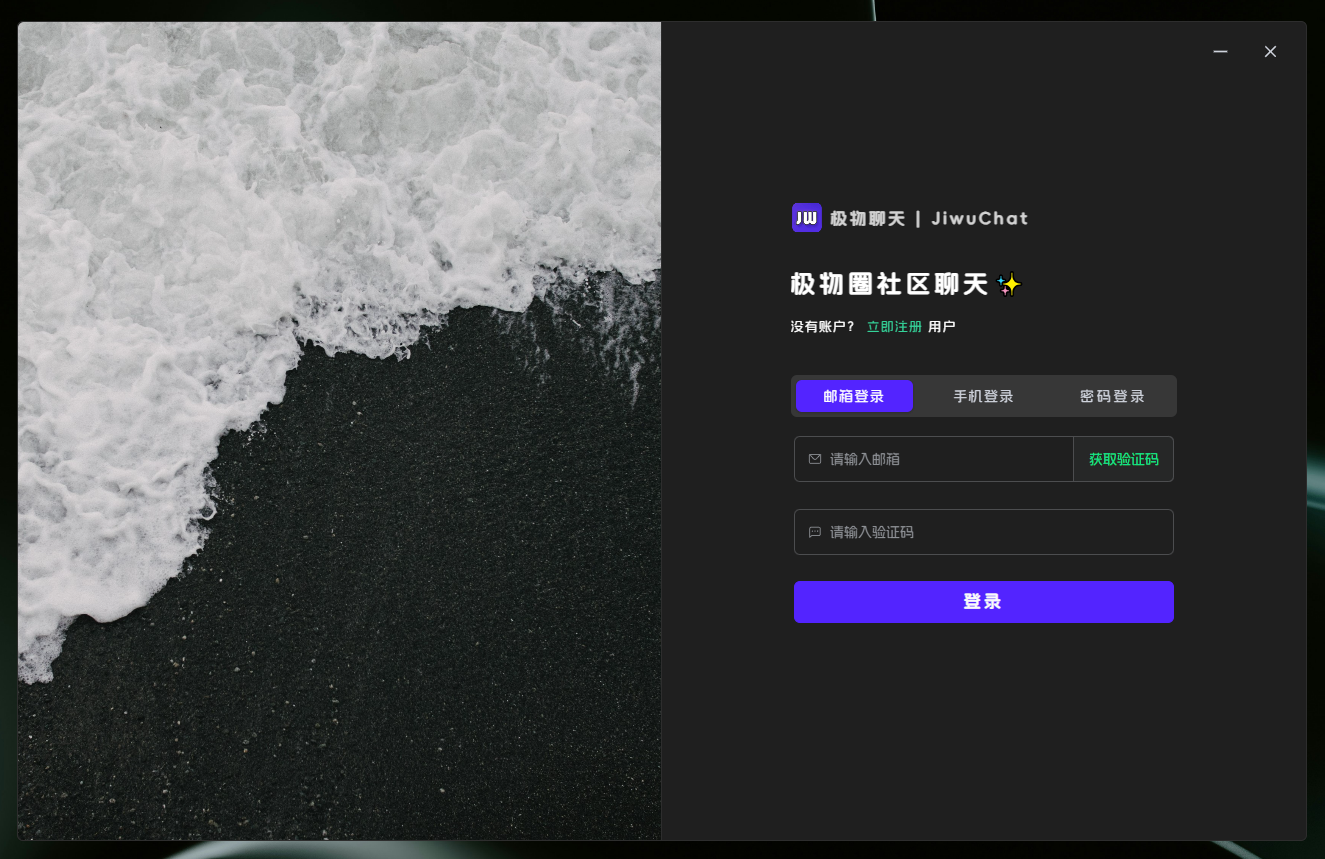
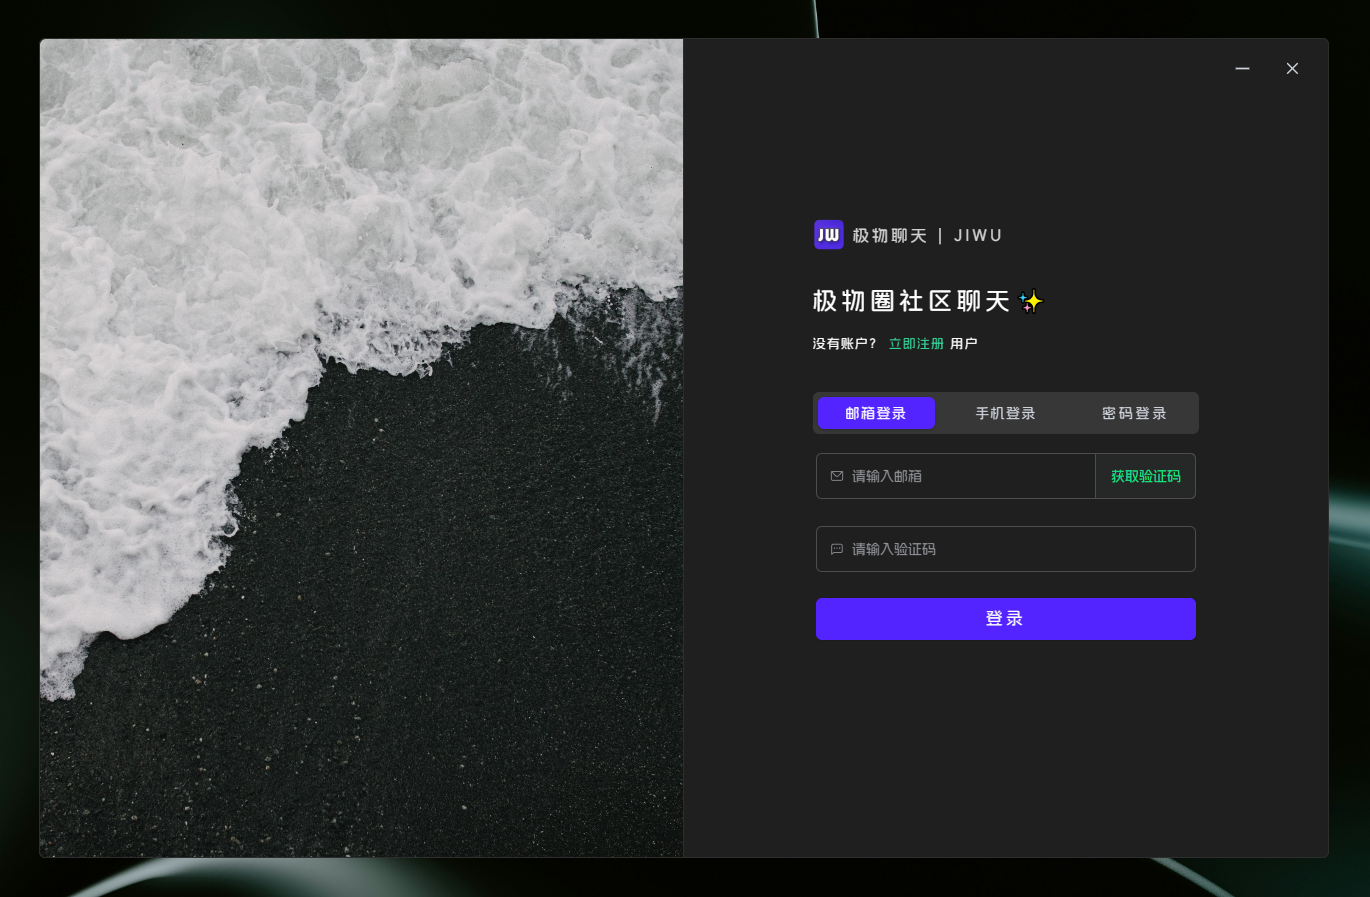
Update: 修改更新文档

diff --git a/pages/login.vue b/pages/login.vue
@@ -22,7 +22,6 @@ onMounted(() => {
 <template>
   <div
     v-if="user.showLoginForm || user.showRegisterForm"
-    data-tauri-drag-region
     class="relative min-h-100vh flex-1 overflow-hidden overflow-hidden shadow border-default card-default bg-color"
     grid="~ cols-1 md:cols-2"
   >
@@ -31,16 +30,17 @@ onMounted(() => {
     </div>
     <!-- bg -->
     <div hidden h-full w-full border-0 border-r-1px shadow-md shadow-inset md:block border-default>
-      <ElImage src="/images/login_bg.jpg" fit="cover" data-tauri-drag-region class="h-full select-none overflow-hidden rounded-r-0 card-default" />
+      <ElImage data-tauri-drag-region src="/images/login_bg.jpg" fit="cover" class="h-full select-none overflow-hidden rounded-r-0 card-default" />
     </div>
     <!-- 表单 -->
-    <div data-tauri-drag-region class="flex flex-col select-none pt-20vh">
-      <div ref="autoAnimateRef" mx-a class="w-3/5">
-        <div key="login-bg" flex items-center gap-2 py-4>
+    <div class="flex flex-col select-none pt-20vh">
+      <div ref="autoAnimateRef" mx-a class="w-5/6 text-center sm:(w-3/5 text-left)">
+        <div key="login-bg" class="fixed left-4 top-0 flex items-center gap-2 py-4 sm:(relative left-a top-a)">
           <ElImage
+            data-tauri-drag-region
             src="/logo.png" class="h-2em w-2em"
           />
-          <strong class="font-bold tracking-0.2em op-80">
+          <strong data-tauri-drag-region class="font-bold tracking-0.2em op-80">
             极物聊天 | JIWU
           </strong>
         </div>
@@ -48,11 +48,13 @@ onMounted(() => {
         <FormLoginForm
           v-if="user.showLoginForm"
           key="login-form"
+          data-tauri-drag-region
         />
         <!-- 注册 -->
         <FormRegisterForm
           v-else-if="user.showRegisterForm"
           key="register-form"
+          data-tauri-drag-region
         />
       </div>
     </div>

diff --git a/composables/store/useSettingStore.ts b/composables/store/useSettingStore.ts
@@ -67,13 +67,7 @@ export const useSettingStore = defineStore(
         const update = await checkUpdate();
         appUploader.value.isUpload = !!update.shouldUpdate;
         appUploader.value.isUpdatateLoad = false;
-        if (!update.shouldUpdate) {
-          ElMessage.success("当前版本已是最新版本！");
-          return false;
-        }
-        if (!update.manifest?.version)
-          return;
-        if (appUploader.value.isUpload) {
+        if (appUploader.value.isUpload && update.manifest?.version) {
           // 忽略
           if (check && appUploader.value.ignoreVersion.includes(update.manifest?.version))
             return false;
@@ -119,7 +113,10 @@ export const useSettingStore = defineStore(
           });
         }
         else {
-          ElMessage.info("当前已是最新版本！");
+          const route = useRoute();
+          console.log(route.path);
+          if (route.path.includes("/setting"))
+            ElMessage.info("当前版本已是最新版本！");
         }
       }
       catch (error) {

diff --git a/pages/user/safe.vue b/pages/user/safe.vue
@@ -4,7 +4,6 @@ import { useModeToggle } from "@/composables/utils/useToggleThemeAnima";
 import { appKeywords } from "@/constants/index";
 
 const isLoading = ref(false);
-const user = useUserStore();
 const setting = useSettingStore();
 // 字体监听
 watchDebounced(
@@ -43,14 +42,6 @@ useSeoMeta({
   title: "设置",
   description: "设置 - 极物圈 开启你的极物之旅！",
   keywords: appKeywords,
-});
-function onSave() {
-  ElNotification.success("保存成功！");
-}
-
-const theme = computed({
-  get: () => setting.settingPage.modeToggle.value,
-  set: (val: string) => setting.settingPage.modeToggle.value = val,
 });
 
 // 更新

diff --git a/components/menu/HeaderMenuBar.vue b/components/menu/HeaderMenuBar.vue
@@ -10,7 +10,7 @@ const isTop = ref(false);
     class="nav group sticky left-0 top-0 h-2rem flex-row-bt-c select-none gap-4 border-0 border-b-0 border-b-1px rounded-b-0 px-4 border-default bg-color"
   >
     <div class="left flex-row-c-c gap-3 tracking-0.2em">
-      <CardElImage src="./logo.png" class="h-1.6rem w-1.6rem" />
+      <CardElImage src="/logo.png" class="h-1.6rem w-1.6rem" />
       <strong hidden sm:block>极物圈</strong>
     </div>
     <!-- 拖拽区域 -->

diff --git a/components/Chat/RoomGroup.vue b/components/Chat/RoomGroup.vue
@@ -213,7 +213,6 @@ function toggleAdminRole(dto: ChatRoomAdminAddDTO, type: ChatRoomRoleEnum) {
     },
   });
 }
-
 watchDebounced(() => chat.theContact.roomId, (val: string) => {
   if (val && chat.theContact.type === RoomType.GROUP)
     reload();

diff --git a/README.en.md b/README.en.md
@@ -1,0 +1,129 @@
+ <h1 align=center margin="10em" style="margin:4em 0 0 0;font-size: 30px;letter-spacing:0.3em;">
+<img src="./public/logo.png" width = "60" height = "60" alt="图片名称" align=center />
+&
+<img src="./.doc/tauri.png" width = "60" height = "60" alt="图片名称" align=center />
+ </h1>
+ <h2 align=center style="font-size: 22px;">Jiwu Chat Tauri APP</h2>
+<div align=center>
+
+Language : English | [简体中文](./README.md)
+
+</div>
+
+### Introduction
+
+Jiwu Chat Tauri APP is a chat desktop application based on the Nuxt3 + Tauri + element-plus basic framework. It provides a beautiful user interface and integrates chat and social functions. At the same time, it supports AI shopping chat and global dark mode. Users can use the app for real-time chat, share dynamic and AI customer service questions and answers.
+
+### Technology
+
+```txt
+Based on Nuxt3 + Tauri + element-plus basic framework
+```
+
+### Project Screenshots
+
+- Chat Desktop Application Login
+
+![登录](./.doc/login.png)
+
+- Chat Desktop Application Chat
+
+![主页](./.doc/chat.png)
+
+- Global Dark Mode Light / Dark
+
+![暗黑](./.doc/chat1.png)
+
+- Chat Social
+
+![暗黑](./.doc/chat2.png)
+
+- AI Shopping Chat
+
+![暗黑](./.doc/chat3.png)
+
+- Account and Security
+
+![账号与安全](./.doc/chat4.png)
+
+![账号与安全](./.doc/chat5.png)
+
+- Responsive
+
+<img src="./.doc/chat7.png" width = "200" alt="响应式" align=center /><img src="./.doc/chat8.png" width = "200" alt="响应式" align=center />
+
+## ⏳ Project Setup
+
+```sh
+# node version >= 16
+npm install -g pnpm
+
+pnpm install
+```
+
+### ✨ Development
+
+```sh
+# It is recommended to run separately
+# 1) Start nuxt
+pnpm run dev:nuxt 
+# 2) Start tauri
+pnpm run dev:tauri 
+```
+
+### 📦 Packaging
+
+```sh
+pnpm run build
+```
+
+or
+
+```sh
+# First build nuxt, then build tauri
+pnpm run build:nuxt
+
+pnpm run build:tauri
+```
+
+### ❌ pnpm install error
+
+View source
+
+```sh
+pnpm get registry 
+```
+
+Temporary modification
+
+```sh
+pnpm --registry https://registry.npm.taobao.org install any-touch
+```
+
+Persistent use
+
+```sh
+pnpm config set registry https://registry.npm.taobao.org
+```
+
+Restore
+
+```sh
+pnpm config set registry https://registry.npmjs.org
+```
+
+### 🔧 Tech Stack
+
+| Category         | Technology/Component   | Version Number   |
+| --------------------- | ---------------------- | ---------------- |
+| Framework        | Nuxt3                 | 3.12.2          |
+|                 | Tauri                 | 1.5.6            |
+| UI Component | Element Plus         | 2.7.6           |
+| State Management  | Pinia                 | 2.1.7           |
+| Toolkit         | Vueuse                | 10.11.0         |
+| Build and Development Tools | Nuxi               | lts            |
+|                 | Vite                  | lts             |
+| Code Quality     | ESLint                | 8.56.0          |
+|                 | Prettier               | 3.3.2           |
+| Type Checking    | TypeScript            | 5.3.2           |
+| Style Handling   | Sass                  | 1.77.6          |

diff --git a/README.md b/README.md
@@ -1,3 +1,4 @@
+<div align=center>
 <h1 align=center margin="10em" style="margin:4em 0 0 0;font-size: 30px;letter-spacing:0.3em;">
 <img src="./public/logo.png" width = "60" height = "60" alt="图片名称" align=center />
 &
@@ -5,9 +6,13 @@
  </h1>
  <h2 align=center style="font-size: 22px;">极物聊天 Tauri APP</h2>
 
+语言 : 简体中文 | [English](./README.en.md)
+
+</div>
+
 ### 介绍
 
-极物圈是一个综合性平台，集商城和社交功能于一体。在这个平台上，用户可以轻松购买虚拟商品，并且可以发布个人帖子，与他人互动，进行评论等。该平台注重用户体验，为用户提供了一个在你圈子交流、好物推荐、分享和购物的多功能环境。
+极物聊天 Tauri APP 是一个基于Nuxt3 + Tauri + element-plus 基本框架的聊天桌面应用。它提供了一个美观的用户界面，并集成了聊天和社交功能。同时，它还支持AI购物聊天和全局夜间模式。用户可以通过该应用进行实时聊天、分享动态和AI客服问答。
 
 ### 技术
 
@@ -23,23 +28,30 @@
 
 - 聊天桌面应用 Chat
 
-![主页](./.doc/chat-el.png)
+![主页](./.doc/chat.png)
 
 - 全局夜间模式 Light / Dark
 
-![暗黑](./.doc/chat-el2.png)
+![暗黑](./.doc/chat1.png)
 
 - 聊天社交
 
-![暗黑](./.doc/chat-el3.png)
+![暗黑](./.doc/chat2.png)
 
 - AI购物聊天
 
-![暗黑](./.doc/chat-el4.png)
+![暗黑](./.doc/chat3.png)
+
+- 账号与安全
+
+![账号与安全](./.doc/chat4.png)
+
+![账号与安全](./.doc/chat5.png)
 
 - 响应式
 
-<img src="./.doc/chat-el5.png" width = "300" alt="响应式" align=center />
+<img src="./.doc/chat7.png" width = "200" alt="响应式" align=center />
+<img src="./.doc/chat8.png" width = "200" alt="响应式" align=center />
 
 ## ⏳ 起步 | Project Setup
 
@@ -91,3 +103,19 @@ pnpm config set registry https://registry.npm.taobao.org
 ```sh
 pnpm config set registry https://registry.npmjs.org
 ```
+
+### 🔧 涉及技术栈 | Tech Stack
+
+| 类别         | 技术/组件          | 版本号       |
+| ------------- | ------------------ | ------------ |
+| 框架         | Nuxt3              | 3.12.2       |
+|              | Tauri              | 1.5.6        |
+| UI 组件库     | Element Plus       | 2.7.6        |
+| 状态管理     | Pinia              | 2.1.7        |
+| 工具库       | Vueuse             | 10.11.0      |
+| 构建与开发工具 | Nuxi               | lts        |
+|              | Vite               | lts         |
+| 代码质量     | ESLint             | 8.56.0       |
+|              | Prettier           | 3.3.2        |
+| 类型检查     | TypeScript         | 5.3.2        |
+| 样式处理     | Sass               | 1.77.6       |
